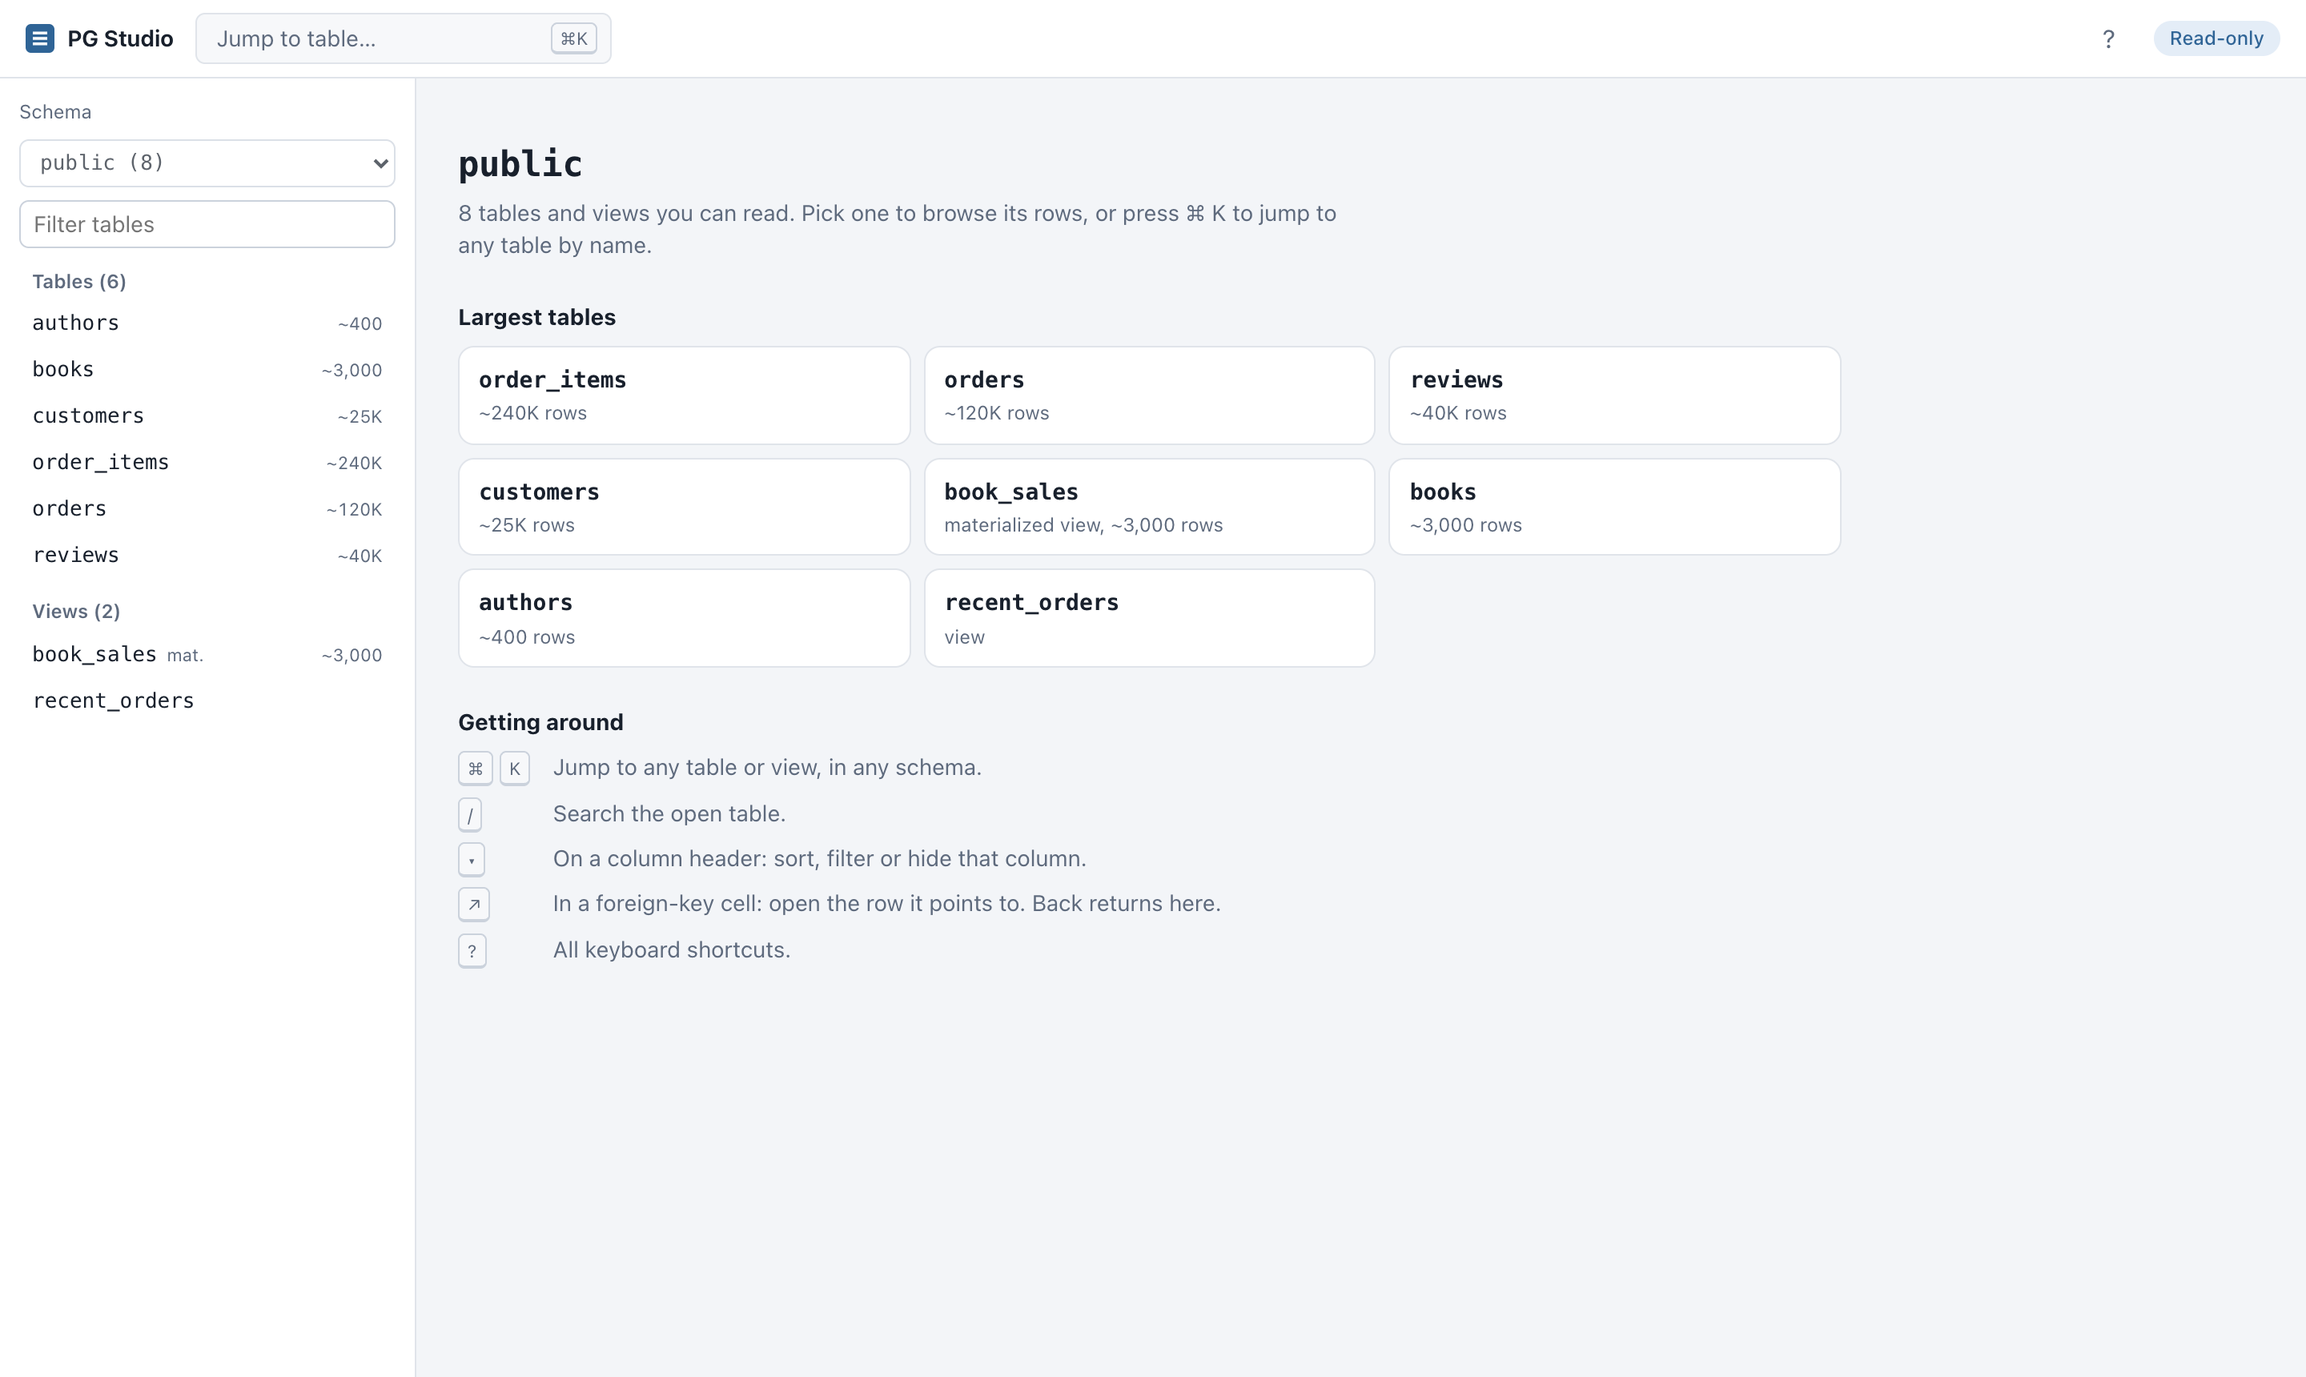
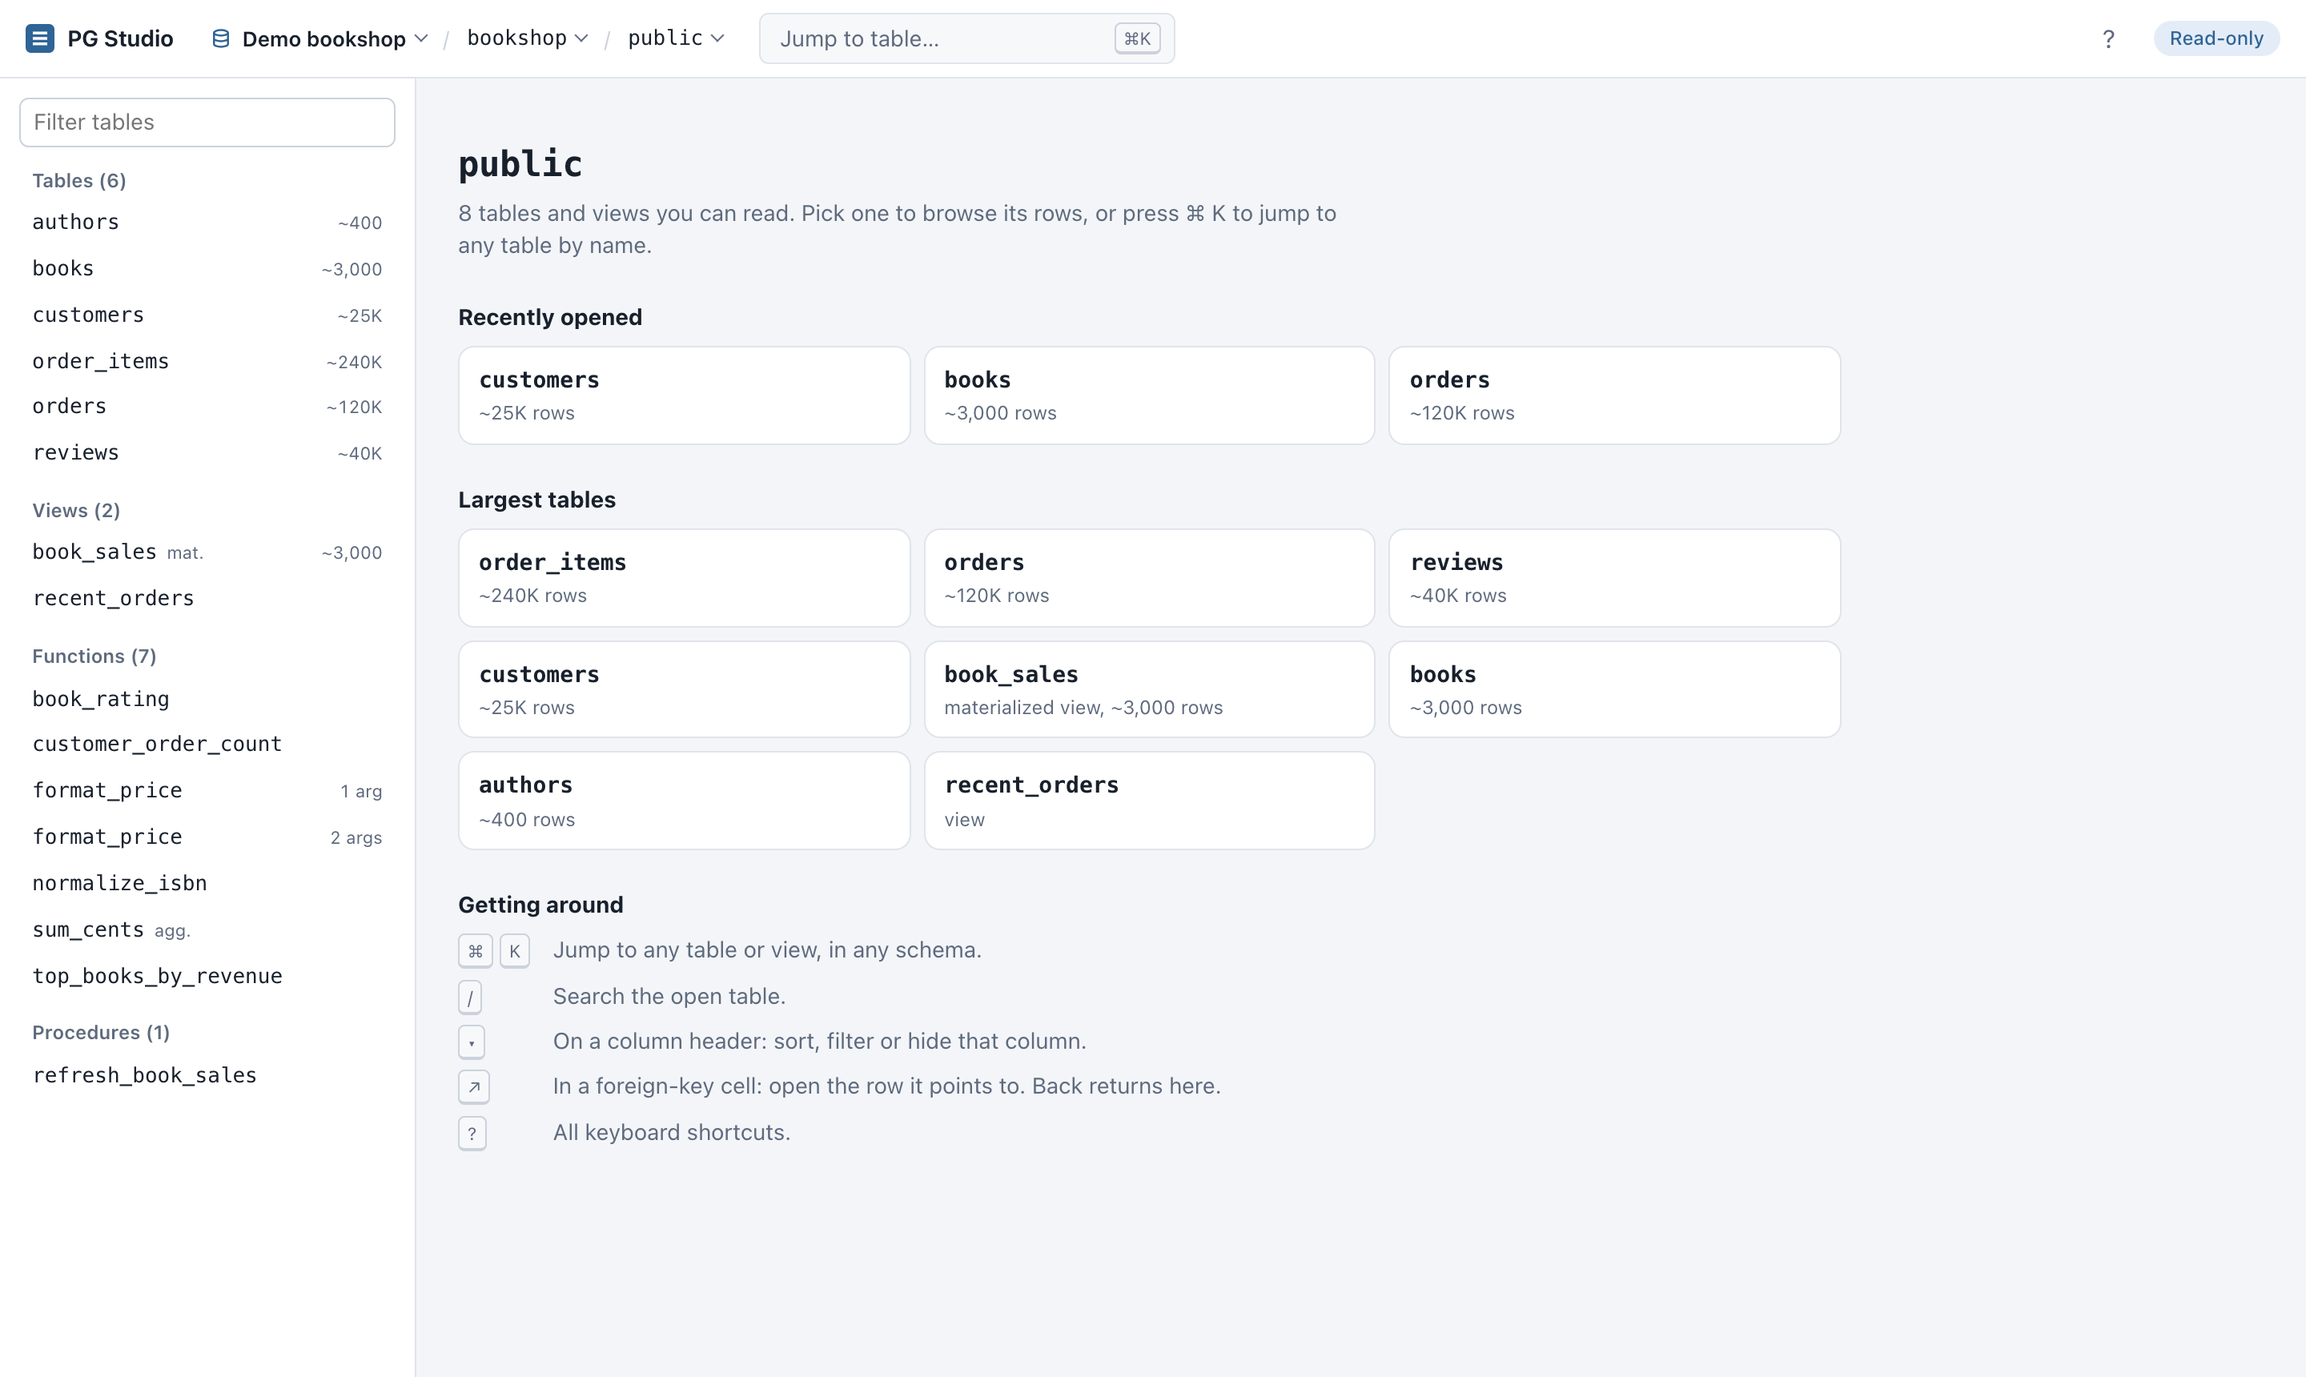
Document the filter panel and refresh screenshots
New screenshots for functions and the database switcher; all others
retaken with the new top bar. Changelog, API (match, /sql), shortcuts
and code-size figures updated.

Claude-Session: https://claude.ai/code/session_014XkXAoULThYFCC9AS7EHym

diff --git a/docs/index.html b/docs/index.html
@@ -154,7 +154,7 @@
           <div class="card"><h3>Every server, every database</h3><p>Saved connections and a database switcher in the top bar. Credentials never reach the browser.</p></div>
           <div class="card"><h3>Functions and procedures</h3><p>Signatures, flags, full source and the triggers that call them. Shown, never run.</p></div>
           <div class="card"><h3>⌘K jump anywhere</h3><p>Fuzzy search across every schema's tables, views and functions, recent ones first.</p></div>
-          <div class="card"><h3>Sort, filter, search</h3><p>Server-side sorting, filter chips with 12 operators, and search across text columns.</p></div>
+          <div class="card"><h3>Filter panel</h3><p>Stack conditions, match all or any, switch one off, and preview the exact SQL. All server-side.</p></div>
           <div class="card"><h3>Follow foreign keys</h3><p>Jump to the referenced row, see the rows that point back, and use Back to return.</p></div>
           <div class="card"><h3>Row inspector</h3><p>Full values with pretty-printed JSON, plus every field of the row in a side panel.</p></div>
           <div class="card"><h3>Structure tab</h3><p>Sizes, stats, indexes and usage, constraints, triggers, and a generated <code>CREATE</code> script.</p></div>
@@ -171,7 +171,7 @@
         <h2>See it in action</h2>
         <p class="sub">Screenshots use the bundled demo database. All data is generated.</p>
         <div class="shots">
-          <figure><img src="assets/screenshot-filters.png" width="1440" height="860" loading="lazy" alt="Orders table filtered by status and total, sorted by date"><figcaption>Filter chips and sorting</figcaption></figure>
+          <figure><img src="assets/screenshot-filters.png" width="1440" height="860" loading="lazy" alt="Filter panel with three conditions, match any, and the SQL preview"><figcaption>Filter panel with SQL preview</figcaption></figure>
           <figure><img src="assets/screenshot-inspector.png" width="1440" height="860" loading="lazy" alt="Row inspector showing pretty-printed JSONB and foreign-key links"><figcaption>Row inspector with JSONB and relationships</figcaption></figure>
           <figure><img src="assets/screenshot-structure.png" width="1440" height="860" loading="lazy" alt="Structure tab with sizes, stats, columns and indexes"><figcaption>Structure tab</figcaption></figure>
           <figure><img src="assets/screenshot-dark.png" width="1440" height="860" loading="lazy" alt="PG Studio in dark mode"><figcaption>Dark mode</figcaption></figure>

diff --git a/README.md b/README.md
@@ -38,7 +38,7 @@ PG Studio does one job: it lets you browse a PostgreSQL database quickly and saf
 - **Read-only by design.** No SQL console, no write routes. Every query runs in a `READ ONLY` transaction that always rolls back, and the docs walk you through a SELECT-only role, which is the real guarantee.
 - **Local only.** It binds to `127.0.0.1`, checks the `Host` header against DNS rebinding, and sends a strict Content Security Policy. Nothing leaves your machine.
 - **Fast on big tables.** Keyset pagination makes page 9,000 as quick as page 1 (6 ms vs 1.2 s with `OFFSET` on a 1M-row table).
-- **Small and auditable.** About 1,600 lines of strict TypeScript on the server and a framework-free front end with no build step. Two runtime dependencies: `express` and `pg`.
+- **Small and auditable.** About 2,200 lines of strict TypeScript on the server and a framework-free front end with no build step. Runtime dependencies: `express`, plus `pg` and `pg-connection-string` from node-postgres.
 
 ## Features
 
@@ -48,7 +48,8 @@ PG Studio does one job: it lets you browse a PostgreSQL database quickly and saf
 | **Every database on a server** | A database switcher lists each database the role may connect to, with its size. Each gets its own small pool, opened on first use. |
 | **Functions and procedures** | Browse functions, procedures and aggregates next to tables: signature, return type, language, volatility, `SECURITY DEFINER`, owner, full source, and the triggers that call them. View only; nothing is ever executed. |
 | **⌘K jump anywhere** | Fuzzy search across every schema's tables, views and functions. Recently opened tables come first. |
-| **Sort and filter from the header** | `=` `≠` `<` `≤` `>` `≥`, contains, starts/ends with, empty / has a value. Filters combine with AND and show as editable chips. |
+| **Filter panel** | Stack up to 10 conditions (`=` `≠` `<` `≤` `>` `≥`, contains, starts/ends with, empty / has a value), match **all** or **any**, switch one off without deleting it, and preview the exact `SELECT` (read-only, copyable). Press `f` to open it; applied filters stay visible as chips. |
+| **Sort and filter from the header** | Each column header menu sorts, filters, or keeps only rows with / without a value. |
 | **Full-text-ish search** | Press `/` to search across a table's text and enum columns. |
 | **Row inspector** | Click any cell to see its full value (JSON pretty-printed) and every field of that row, so wide tables stay readable. |
 | **Foreign-key navigation** | The ↗ in an FK cell opens the referenced row. The inspector also lists the rows that point *to* this one. Composite and cross-schema keys work, and browser Back returns you to where you were. |
@@ -65,16 +66,20 @@ PG Studio does one job: it lets you browse a PostgreSQL database quickly and saf
 
 <table>
   <tr>
-    <td width="50%"><img src="docs/assets/screenshot-filters.png" alt="Orders table filtered by status and total, sorted by date"><br><sub><b>Filter chips and sorting</b>, all server-side</sub></td>
+    <td width="50%"><img src="docs/assets/screenshot-filters.png" alt="Filter panel with three conditions, match any, and the SQL preview"><br><sub><b>Filter panel</b>: all / any, on-off conditions, SQL preview</sub></td>
     <td width="50%"><img src="docs/assets/screenshot-inspector.png" alt="Row inspector showing pretty-printed JSONB and foreign-key links"><br><sub><b>Row inspector</b>: JSONB, outgoing and incoming foreign keys</sub></td>
   </tr>
   <tr>
     <td width="50%"><img src="docs/assets/screenshot-structure.png" alt="Structure tab with sizes, stats, columns and indexes"><br><sub><b>Structure tab</b>: sizes, stats, indexes, constraints, DDL</sub></td>
-    <td width="50%"><img src="docs/assets/screenshot-jump.png" alt="Cmd+K jump to table dialog"><br><sub><b>⌘K</b> jump to any table in any schema</sub></td>
+    <td width="50%"><img src="docs/assets/screenshot-jump.png" alt="Cmd+K jump dialog listing tables and functions"><br><sub><b>⌘K</b> jump to any table or function in any schema</sub></td>
   </tr>
   <tr>
     <td width="50%"><img src="docs/assets/screenshot-dark.png" alt="PG Studio in dark mode"><br><sub><b>Dark mode</b></sub></td>
     <td width="50%"><img src="docs/assets/screenshot-home.png" alt="Start page listing the largest tables"><br><sub><b>Start page</b> with the largest and recent tables</sub></td>
+  </tr>
+  <tr>
+    <td width="50%"><img src="docs/assets/screenshot-functions.png" alt="A plpgsql function with its signature, flags and source"><br><sub><b>Functions and procedures</b>: signature, flags and source</sub></td>
+    <td width="50%"><img src="docs/assets/screenshot-databases.png" alt="Database menu listing analytics, bookshop and postgres with sizes"><br><sub><b>Connection / database / schema</b> switcher</sub></td>
   </tr>
 </table>
 
@@ -201,6 +206,7 @@ The server prints the cause at startup (`[db] startup check failed: …`) and th
 |---|---|
 | <kbd>⌘</kbd> <kbd>K</kbd> / <kbd>Ctrl</kbd> <kbd>K</kbd> | Jump to a table or view |
 | <kbd>/</kbd> | Search the open table |
+| <kbd>F</kbd> | Open or close the filter panel (<kbd>Enter</kbd> applies) |
 | <kbd>←</kbd> <kbd>↑</kbd> <kbd>→</kbd> <kbd>↓</kbd> | Move between cells |
 | <kbd>Enter</kbd> | Open the row in the side panel |
 | <kbd>⌘</kbd> <kbd>C</kbd> | Copy the selected cell |
@@ -217,7 +223,7 @@ PG Studio is built to be safe to point at a real database:
 - **Bounded reads.** Page size ≤ 100, cells cut to 5,000 characters inside PostgreSQL, a per-query `statement_timeout`, and capped exports.
 - **Localhost hardening.** Binds to `127.0.0.1`, `Host` header allow-list against DNS rebinding, same-origin guard for any future writes, and a strict CSP with no inline script or style.
 - **XSS-safe rendering.** Every database value is rendered with `textContent`.
-- **No credential leaks.** Connection strings are redacted from logs and error messages.
+- **No credential leaks.** Connection strings are redacted from logs and error messages, and never sent to the browser: it picks a saved connection by id, and only databases the role may `CONNECT` to can be opened.
 
 Each control was tested against a hostile input (`x"; DROP TABLE users;--` table names, `' OR '1'='1` filters, `<img onerror>` in JSONB, `Host: evil.example`, and more). See the full **[security model and test matrix](SECURITY.md#security-model)**. To report a vulnerability, follow [SECURITY.md](SECURITY.md).
 
@@ -232,7 +238,7 @@ PG Studio isn't a replacement for a full database IDE. It's the small, safe tool
 | Install | `npm install` | Desktop or server | Desktop (Java) | Desktop |
 | Runs in | Your browser, on localhost | Desktop or web | Desktop | Desktop |
 | License | Apache 2.0 | PostgreSQL | Apache 2 / commercial | Commercial |
-| Size of codebase to audit | ~4.4k lines | Large | Large | Closed source |
+| Size of codebase to audit | ~5.8k lines | Large | Large | Closed source |
 
 For running ad-hoc SQL, managing roles or designing schemas, use one of the others.
 

diff --git a/docs/API.md b/docs/API.md
@@ -13,6 +13,7 @@ PG Studio's front end talks to a small JSON API under `/api`. It's served on `12
 | `GET /api/tables?schema=` | Tables, views and materialized views the role can SELECT, with planner row estimates. 404 for a schema without `USAGE`. |
 | `GET /api/tables/:name?page=1&pageSize=50` | Column metadata (type, category, PK, generated, `canUpdate`), primary key, foreign keys both ways, one page of rows, `hasNext`, truncated-cell list |
 | `GET /api/tables/:name/details` | Sizes, stats, column defaults and comments, indexes, constraints, triggers, view definition, generated DDL |
+| `GET /api/tables/:name/sql` | `{ sql }`: the `SELECT` for page 1 of the current view, with values inlined as quoted literals, for reading or pasting into psql. Display only; it's never executed and the endpoint takes no SQL. |
 | `GET /api/tables/:name/count` | Exact `count(*)` of the current view (filters and search apply) |
 | `GET /api/routines?schema=` | Functions, procedures, aggregates and window functions in the schema (not ones owned by extensions): `oid`, `name`, `kind`, `args`, `returns`, `language` |
 | `GET /api/routines/:oid` | One routine: flags (volatility, strict, `SECURITY DEFINER`, leakproof, parallel), owner, comment, `definition` from `pg_get_functiondef` (aggregates get a summary instead), and `usedByTriggers`. 404 unless its schema is readable. |
@@ -31,7 +32,8 @@ All `/api/tables/:name…` endpoints take `schema` (default `PG_SCHEMA`) and the
 | Param | Example | Notes |
 |---|---|---|
 | `sort`, `dir` | `sort=created_at&dir=desc` | The column must exist. NULLs sort last. The primary key is added as a tiebreaker so paging is stable. |
-| `filters` | `[{"c":"status","op":"eq","v":"published"}]` | JSON array, max 10, combined with AND. `op` is one of `eq neq lt lte gt gte contains not_contains starts ends null not_null`. `neq` and `not_contains` include NULL rows. |
+| `filters` | `[{"c":"status","op":"eq","v":"published"}]` | JSON array, max 10, combined with AND (or OR, see `match`). `op` is one of `eq neq lt lte gt gte contains not_contains starts ends null not_null`. `neq` and `not_contains` include NULL rows. |
+| `match` | `match=any` | `all` (default, AND) or `any` (OR) for the filters. Search is always ANDed on top. |
 | `q` | `q=dogs` | Case-insensitive search over string and enum columns. |
 | `after`, `before` | `after=WyIxMDAiXQ` | Keyset cursors (rows endpoint only). Take them from `nextCursor` / `prevCursor` in the previous response. |
 | `page`, `pageSize` | `page=3&pageSize=100` | `pageSize` ≤ 100. `page` is used in offset mode. |

diff --git a/docs/ARCHITECTURE.md b/docs/ARCHITECTURE.md
@@ -58,7 +58,7 @@ scripts/
 - **The role is the boundary, not the transaction mode.** `READ ONLY` is a guard rail. A SELECT-only role is the real guarantee, which is why the server checks the role's privileges at startup and the UI turns the badge red if it can write.
 - **Text in, text out.** Values travel as PostgreSQL text output, which is also the input format for every type, so a future editor can send back exactly what the grid shows.
 - **Bounded everything.** Page size, cell length, export rows and query time all have hard limits.
-- **No framework, no build.** The front end is about 1,900 lines of plain JavaScript. That keeps the attack surface small, lets the CSP forbid inline script and style, and means there's nothing to compile.
+- **No framework, no build.** The front end is about 2,500 lines of plain JavaScript. That keeps the attack surface small, lets the CSP forbid inline script and style, and means there's nothing to compile.
 - **Credentials stay on the server.** Connections come from the environment or `connections.json`. The browser picks one by id and never sees a URL or password, and no endpoint accepts connection details.
 - **Code is shown, never run.** Functions and procedures are read from the catalog (`pg_get_functiondef`); nothing calls them.
 - **Localhost only.** The bind address isn't configurable. Running PG Studio for other people would need authentication, which is out of scope.

diff --git a/CHANGELOG.md b/CHANGELOG.md
@@ -7,7 +7,12 @@ The format is based on [Keep a Changelog](https://keepachangelog.com/en/1.1.0/),
 
 ### Added
 
+- Saved connections in `connections.json` (or `DATABASE_URL` as before), with a connection / database / schema switcher in the top bar. Credentials never reach the browser.
+- Every database on a server: a database menu lists those the role may connect to, each opened with its own small pool on first use.
+- Functions, procedures and aggregates in the sidebar and ⌘K, with signature, flags (`SECURITY DEFINER`, volatility…), owner, source and the triggers that use them. View only.
+- Filter panel: several conditions at once, match all / any (`match=any`), conditions you can switch off, and a read-only SQL preview (`/tables/:name/sql`). Press `f`.
 - Demo database (`npm run demo:db`, `npm run demo`) with ~430k rows of generated bookshop data.
+- Demo `analytics` database, two saved demo connections, and example functions, a procedure, a trigger and an aggregate.
 - End-to-end smoke test (`npm run test:smoke`) covering the API and security controls.
 - CI on Node 20, 22 and 24, with smoke tests against PostgreSQL 14, 15, 16 and 17.
 - Open-source project files: contributing guide, code of conduct, security policy, issue and PR templates, roadmap, and a project website.
